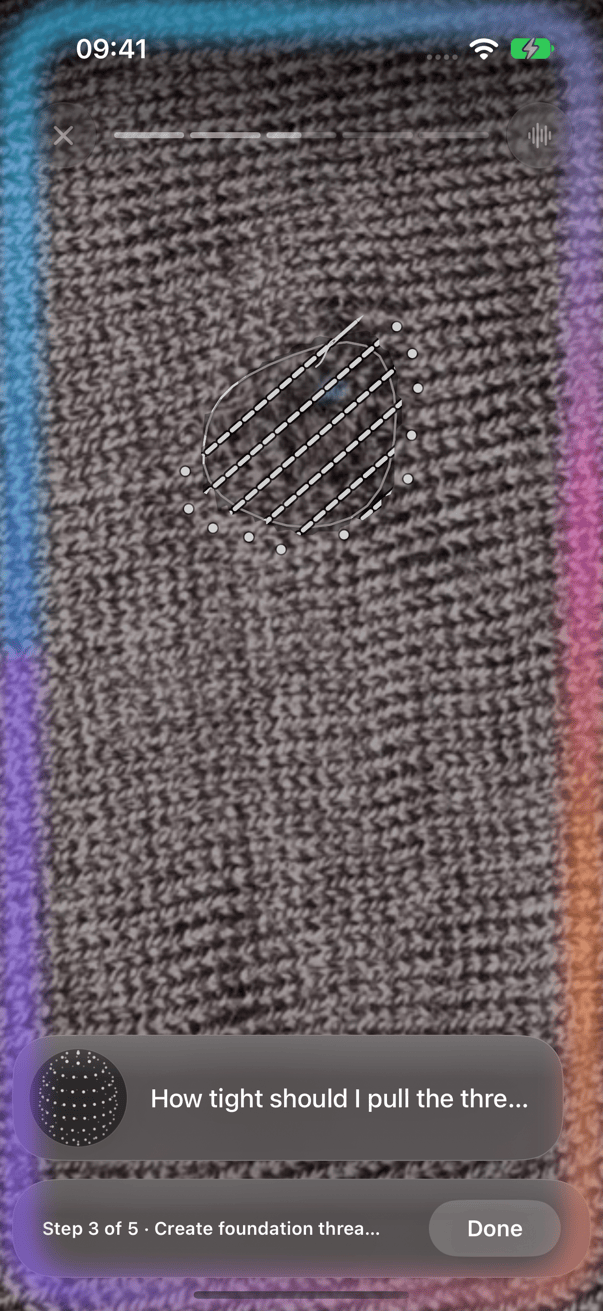
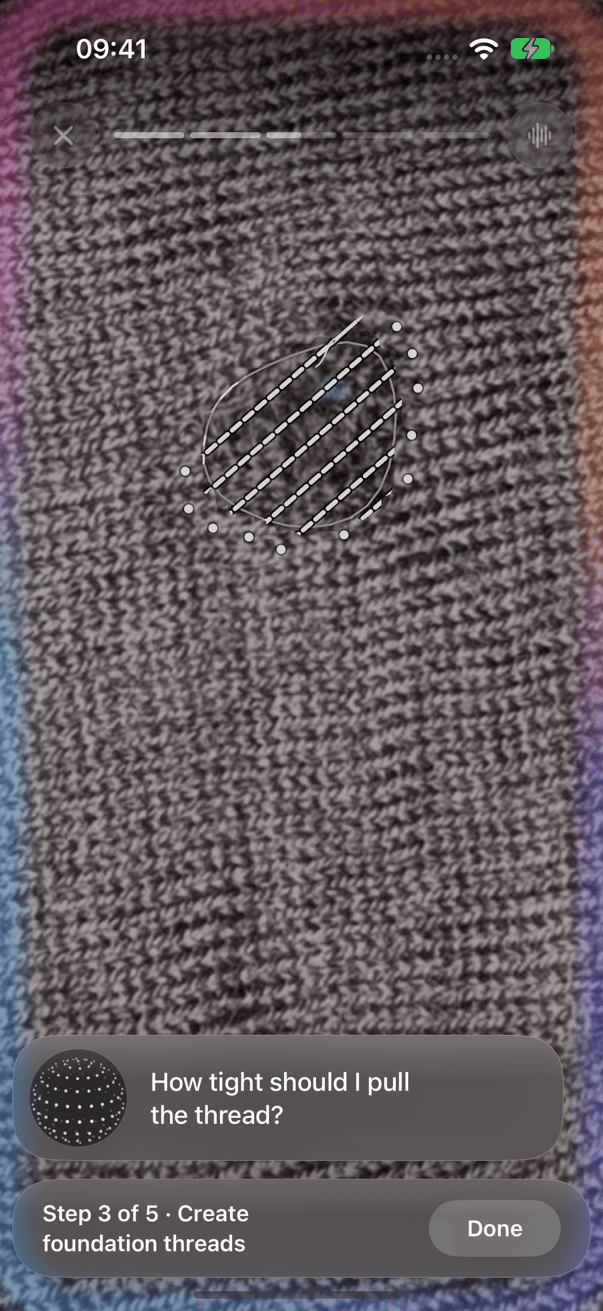
ios: Freihand-Overlay ohne abgeschnittene Texte, weicherer Randschein

Changed region(s): [[0.0, 0.0, 1.0, 1.0], [0.2388, 0.8238, 0.8358, 0.8543]]

diff --git a/ios/RepairAssistant/DesignSystem/HandsFreeOverlay.swift b/ios/RepairAssistant/DesignSystem/HandsFreeOverlay.swift
@@ -39,14 +39,14 @@ struct HandsFreeGlow: View {
         return Canvas { ctx, size in
             let rect = CGRect(origin: .zero, size: size)
             let radius = max(8, UIScreen.main.displayCornerRadiusApprox)
-            let width: CGFloat = 24
-            // Stroke centre line sits half a stroke inside the display edge, so the outer edge follows the display corners.
-            let inset = width / 2
+            let width: CGFloat = 16
+            // Stroke centred on the display edge: half of it lies off-screen, so it reads as light bleeding inward.
+            let inset: CGFloat = 0
             let path = RoundedRectangle(cornerRadius: max(8, radius - inset), style: .continuous).path(in: rect.insetBy(dx: inset, dy: inset))
             let angle = Angle.radians(t * 2 * .pi / 8)   // 8 s per revolution
             ctx.drawLayer { l in
                 l.opacity = k
-                l.addFilter(.blur(radius: 9))
+                l.addFilter(.blur(radius: 12))
                 l.stroke(path, with: .conicGradient(Gradient(colors: Self.colors), center: CGPoint(x: size.width / 2, y: size.height / 2), angle: angle), lineWidth: width)
             }
         }
@@ -125,6 +125,7 @@ struct HandsFreeCapsule: View {
                     .foregroundStyle(model.phase == .idle && model.notice == nil && model.caption.isEmpty ? .white.opacity(0.78) : .white)
                     .lineLimit(2)
                     .multilineTextAlignment(.leading)
+                    .fixedSize(horizontal: false, vertical: true)
                     .contentTransition(.opacity)
             }
             .frame(maxWidth: 260, alignment: .leading)

diff --git a/ios/RepairAssistant/Views/GuideView.swift b/ios/RepairAssistant/Views/GuideView.swift
@@ -199,7 +199,7 @@ struct GuideView: View {
         return HStack(spacing: 12) {
             Text("Step \(index + 1) of \(steps.count) · \(step.title)")
                 .font(.subheadline.weight(.semibold)).foregroundStyle(.white)
-                .lineLimit(1).minimumScaleFactor(0.8).multilineTextAlignment(.leading)
+                .lineLimit(2).multilineTextAlignment(.leading).fixedSize(horizontal: false, vertical: true)
             Spacer(minLength: 8)
             Button { advance(last: last) } label: {
                 Text(last ? "Finish" : "Done").font(.subheadline.weight(.semibold)).foregroundStyle(.white).lineLimit(1)
